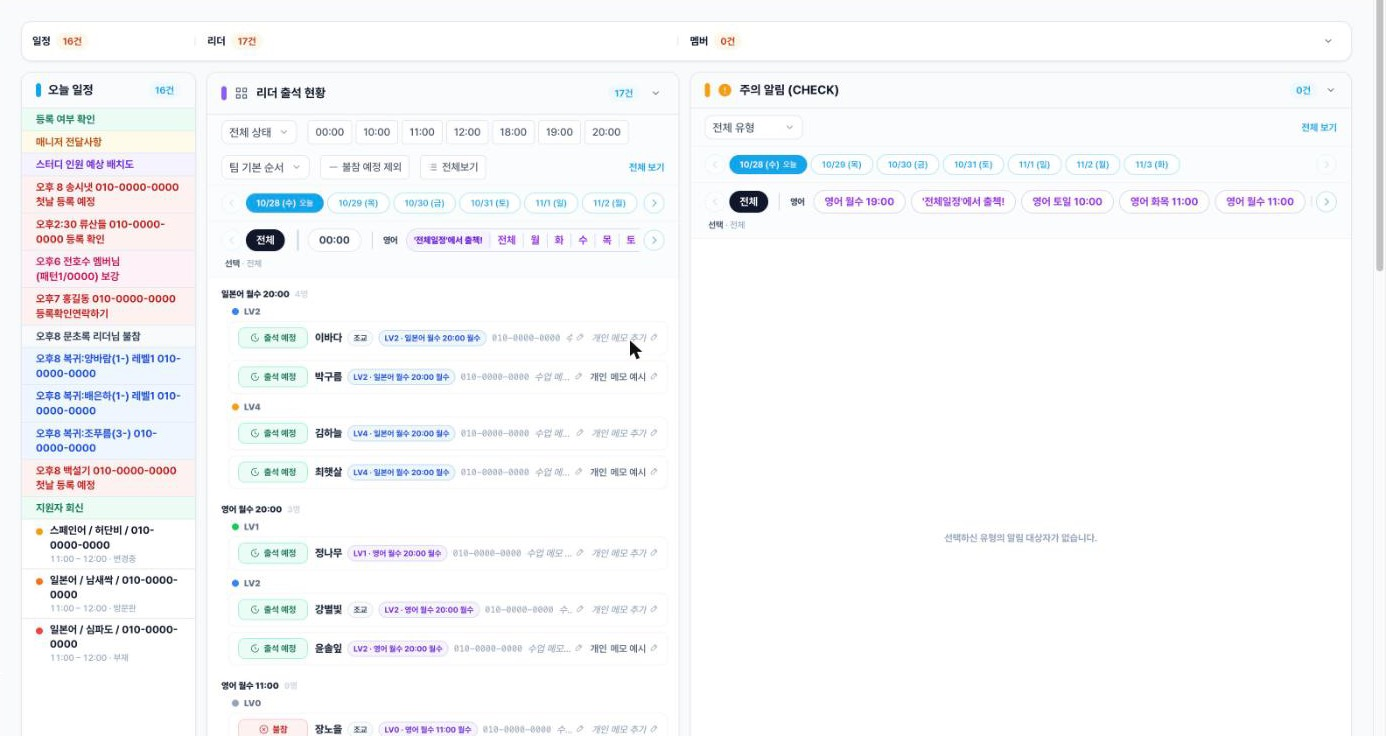
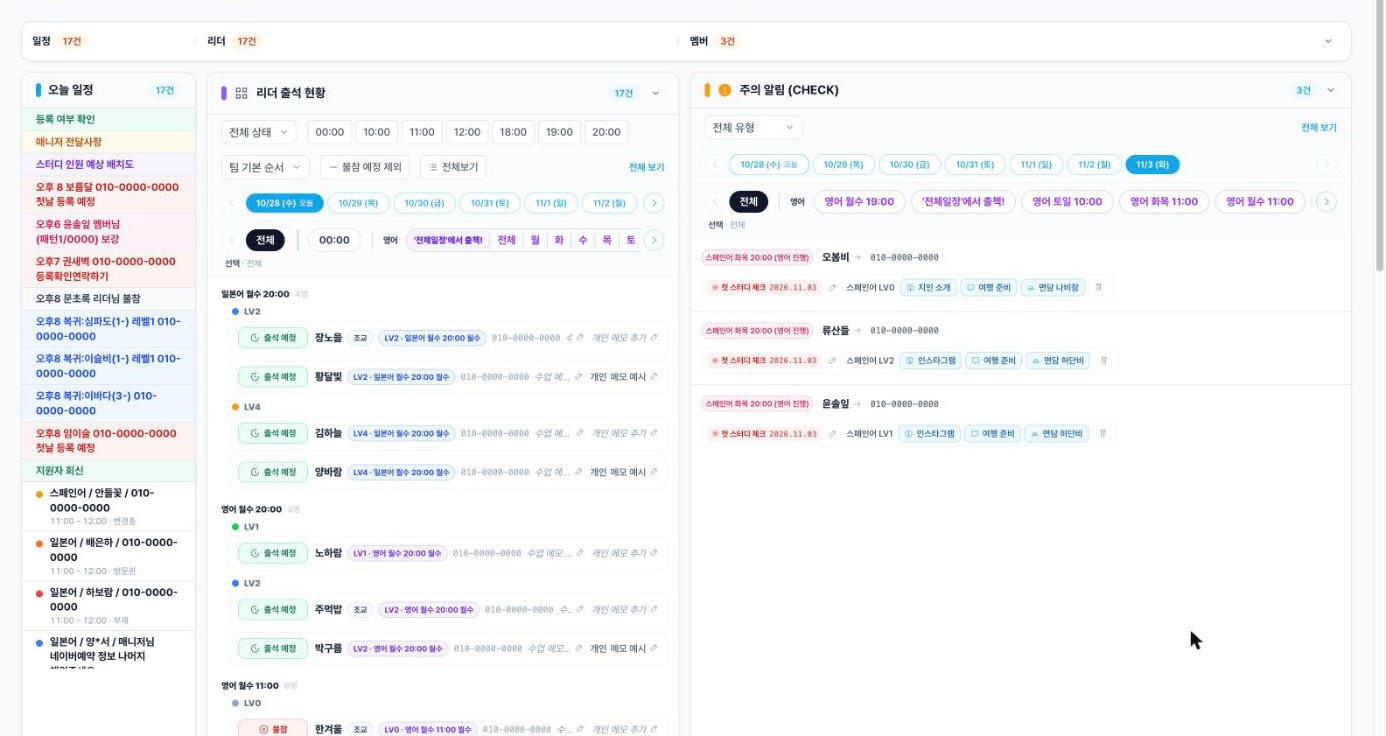
조교 가이드: 캘린더 사진에 주의 알림 예시 + 알림 종류 설명

diff --git a/index.html b/index.html
@@ -5,10 +5,10 @@
 <meta name="viewport" content="width=device-width, initial-scale=1, viewport-fit=cover">
 <title>팔로 플래너</title>
 <meta name="robots" content="noindex">
-<meta name="app-version" content="202610281439">
+<meta name="app-version" content="202610281504">
 <meta name="theme-color" content="#0b0a14" media="(prefers-color-scheme: dark)"><meta name="theme-color" content="#f3f1f9" media="(prefers-color-scheme: light)">
 <link rel="manifest" href="manifest.webmanifest">
-<script src="theme.js?v=202610281439"></script>
+<script src="theme.js?v=202610281504"></script>
 <link rel="icon" href="icon-192.png">
 <link rel="apple-touch-icon" href="icon-180.png">
 <meta name="apple-mobile-web-app-capable" content="yes">
@@ -510,19 +510,19 @@ dialog .ttl { font-size: 17px; font-weight: 600; }
 }
 @media (min-width: 861px) { #weeksBtn { display: none; } }
 </style>
-<link rel="stylesheet" href="blog.css?v=202610281439">
-<link rel="stylesheet" href="photo.css?v=202610281439">
-<link rel="stylesheet" href="post.css?v=202610281439">
-<link rel="stylesheet" href="marketing.css?v=202610281439">
-<link rel="stylesheet" href="contacts.css?v=202610281439">
-<link rel="stylesheet" href="leaders.css?v=202610281439">
-<link rel="stylesheet" href="links.css?v=202610281439">
-<link rel="stylesheet" href="reports.css?v=202610281439">
-<link rel="stylesheet" href="edu.css?v=202610281439">
-<link rel="stylesheet" href="qna.css?v=202610281439">
-<link rel="stylesheet" href="jo-guide.css?v=202610281439">
-<link rel="stylesheet" href="wiki.css?v=202610281439">
-<link rel="stylesheet" href="glass.css?v=202610281439">
+<link rel="stylesheet" href="blog.css?v=202610281504">
+<link rel="stylesheet" href="photo.css?v=202610281504">
+<link rel="stylesheet" href="post.css?v=202610281504">
+<link rel="stylesheet" href="marketing.css?v=202610281504">
+<link rel="stylesheet" href="contacts.css?v=202610281504">
+<link rel="stylesheet" href="leaders.css?v=202610281504">
+<link rel="stylesheet" href="links.css?v=202610281504">
+<link rel="stylesheet" href="reports.css?v=202610281504">
+<link rel="stylesheet" href="edu.css?v=202610281504">
+<link rel="stylesheet" href="qna.css?v=202610281504">
+<link rel="stylesheet" href="jo-guide.css?v=202610281504">
+<link rel="stylesheet" href="wiki.css?v=202610281504">
+<link rel="stylesheet" href="glass.css?v=202610281504">
 </head>
 <body>
 
@@ -678,9 +678,9 @@ dialog .ttl { font-size: 17px; font-weight: 600; }
 <div id="toast" class="hidden"></div>
 
 <script src="https://cdn.jsdelivr.net/npm/@supabase/supabase-js@2.45.4/dist/umd/supabase.min.js"></script>
-<script src="config.js?v=202610281439"></script>
-<script src="week.js?v=202610281439"></script>
-<script src="pick.js?v=202610281439"></script>
+<script src="config.js?v=202610281504"></script>
+<script src="week.js?v=202610281504"></script>
+<script src="pick.js?v=202610281504"></script>
 <script>
 const sb = supabase.createClient(CONFIG.SUPABASE_URL, CONFIG.SUPABASE_KEY);
 { // 👀 매니저 화면 보기 중엔 그 사람 것을 못 바꾸게: tasks 쓰기·쓰기 rpc 를 앞에서 끊는다
@@ -2057,29 +2057,29 @@ checkVer(); document.addEventListener("visibilitychange", () => document.visibil
 sb.auth.onAuthStateChange((ev) => ev === "SIGNED_OUT" && location.reload());
 boot();
 </script>
-<script src="sales.js?v=202610281439"></script>
-<script src="photo.js?v=202610281439"></script>
-<script src="blog.js?v=202610281439"></script>
-<script src="mk-core.js?v=202610281439"></script>
-<script src="mkc-core.js?v=202610281439"></script>
-<script src="marketing.js?v=202610281439"></script>
-<script src="sns-core.js?v=202610281439"></script>
-<script src="post.js?v=202610281439"></script>
-<script src="someday.js?v=202610281439"></script>
-<script src="contacts.js?v=202610281439"></script>
-<script src="refs.js?v=202610281439"></script>
-<script src="sim-merge.js?v=202610281439"></script>
-<script src="simtb.js?v=202610281439"></script>
-<script src="leaders-core.js?v=202610281439"></script>
-<script src="leaders.js?v=202610281439"></script>
-<script src="links.js?v=202610281439"></script>
-<script src="edu-data.js?v=202610281439"></script>
-<script src="edu.js?v=202610281439"></script>
-<script src="reports.js?v=202610281439"></script>
-<script src="jo-guide-data.js?v=202610281439"></script>
-<script src="jo-guide.js?v=202610281439"></script>
-<script src="wiki-data.js?v=202610281439"></script>
-<script src="wiki.js?v=202610281439"></script>
-<script src="qna.js?v=202610281439"></script>
+<script src="sales.js?v=202610281504"></script>
+<script src="photo.js?v=202610281504"></script>
+<script src="blog.js?v=202610281504"></script>
+<script src="mk-core.js?v=202610281504"></script>
+<script src="mkc-core.js?v=202610281504"></script>
+<script src="marketing.js?v=202610281504"></script>
+<script src="sns-core.js?v=202610281504"></script>
+<script src="post.js?v=202610281504"></script>
+<script src="someday.js?v=202610281504"></script>
+<script src="contacts.js?v=202610281504"></script>
+<script src="refs.js?v=202610281504"></script>
+<script src="sim-merge.js?v=202610281504"></script>
+<script src="simtb.js?v=202610281504"></script>
+<script src="leaders-core.js?v=202610281504"></script>
+<script src="leaders.js?v=202610281504"></script>
+<script src="links.js?v=202610281504"></script>
+<script src="edu-data.js?v=202610281504"></script>
+<script src="edu.js?v=202610281504"></script>
+<script src="reports.js?v=202610281504"></script>
+<script src="jo-guide-data.js?v=202610281504"></script>
+<script src="jo-guide.js?v=202610281504"></script>
+<script src="wiki-data.js?v=202610281504"></script>
+<script src="wiki.js?v=202610281504"></script>
+<script src="qna.js?v=202610281504"></script>
 </body>
 </html>

diff --git a/jo-guide-data.js b/jo-guide-data.js
@@ -264,11 +264,12 @@ window.JG = {
       "• 왼쪽 메뉴 맨 위 [캘린더]에서 하루 시작",
       "❗ 업무는 노트북·전체 화면으로. 창을 여러 개 띄우면 자동 새로고침이 안 되니 처리 전에 새로고침.",
       "❗ 비밀번호는 절대 북마크 이름이나 메모에 적지 않아요."] },
-    { id: "today", img: ["calendar"], ch: "캘린더 · 일정", t: "캘린더(오늘 화면) 읽는 법", body: [
+    { id: "today", img: ["calendar"],ch: "캘린더 · 일정", t: "캘린더(오늘 화면) 읽는 법", body: [
       "출근하면 [캘린더]의 세 칸을 위에서부터 훑고 매니저에게 보고해요.",
       "• ① 오늘 일정: 매니저 전달사항, 등록 여부 확인, 복귀·첫날 멤버, 상담 예약(방문예정·불참·변경중), 조교 불참",
       "• ② 리더 출석 현황: 시간대별로 오늘 오실 리더님과 레벨 — '출석 예정'이 실제로 오셨는지 체크",
-      "• ③ 주의 알림(CHECK): '첫 스터디 체크'처럼 오늘 챙길 멤버. 날짜 버튼으로 내일 이후도 미리 보기"] },
+      "• ③ 주의 알림(CHECK): '첫 스터디 체크'처럼 오늘 챙길 멤버. 날짜 버튼으로 내일 이후도 미리 보기",
+      "주의 알림 종류: 첫 스터디 체크 · 만료 D-7 · 결제 확인 · 홀딩 복귀 · 직접 입력 — [전체 유형]에서 골라 걸러 봐요. 아래 사진은 11/3(화) 첫 스터디 체크 3명이 뜬 모습이에요."] },
     { id: "calkinds", img: ["callcal"], ch: "캘린더 · 일정", t: "전산 캘린더 — 일정 종류와 팁", body: [
       "전체 달력은 [신규 회신] → [캘린더] 탭. 종류: 신규등록 · 상담 · 행사 · 회의 · 개인 · 중요 · 기타",
       "• 매니저 전달사항: '종일' + 매일 반복으로 만들고, 날마다 '이 일정만 변경'으로 내용 적기",

diff --git a/guide.html b/guide.html
@@ -8,15 +8,15 @@
 <meta name="theme-color" content="#0b0a14" media="(prefers-color-scheme: dark)"><meta name="theme-color" content="#f3f1f9" media="(prefers-color-scheme: light)">
 <link rel="icon" href="icon-192.png">
 <!-- 🧑🎓 로그인 없이 여는 사전숙제 링크 — 내용은 jo-guide-data.js (플래너 [조교 가이드] 탭과 같음) -->
-<script src="theme.js?v=202610281439"></script>
+<script src="theme.js?v=202610281504"></script>
 <style>html, body { margin: 0; color: var(--text); font: 15px/1.5 -apple-system, BlinkMacSystemFont, "Apple SD Gothic Neo", "Pretendard", "Segoe UI", sans-serif; -webkit-text-size-adjust: 100%; }</style>
-<link rel="stylesheet" href="glass.css?v=202610281439">
-<link rel="stylesheet" href="jo-guide.css?v=202610281439">
+<link rel="stylesheet" href="glass.css?v=202610281504">
+<link rel="stylesheet" href="jo-guide.css?v=202610281504">
 </head>
 <body>
 <main id="jg"></main>
-<script src="jo-guide-data.js?v=202610281439"></script>
-<script src="jo-guide.js?v=202610281439"></script>
+<script src="jo-guide-data.js?v=202610281504"></script>
+<script src="jo-guide.js?v=202610281504"></script>
 <script>JGUIDE.mount(document.getElementById("jg"), { standalone: true });</script>
 </body>
 </html>
